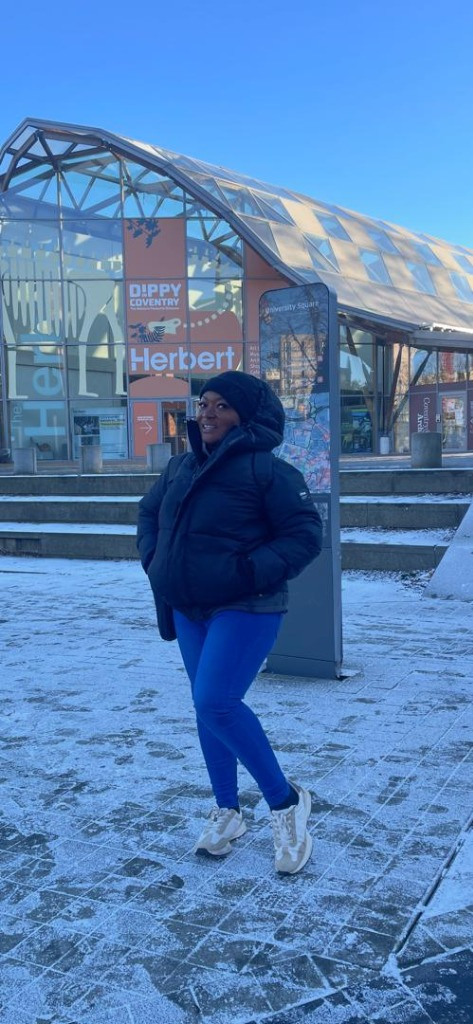
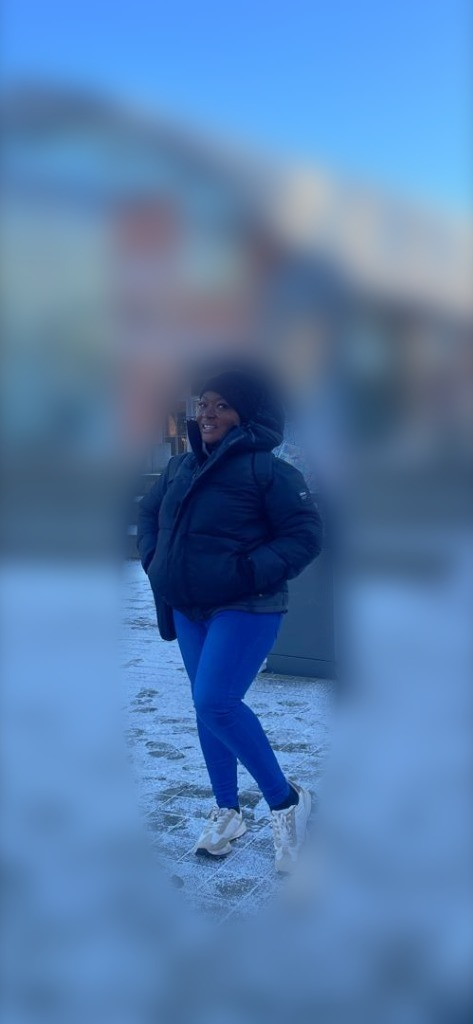
Hide the featured student's location
Blur the background of the client photo so place signs and landmarks can't be read, and remove the town name from the slider text and image description. The client agreed to be featured without her name or location.

diff --git a/index.html b/index.html
@@ -282,11 +282,11 @@
 
                 <!-- 4. Real student -->
                 <article class="mreel-slide ms-photo" aria-roledescription="slide" aria-label="4 of 6">
-                    <div class="ms-photo-img" style="background-image:url('assets/proof_student_uk_arrival.jpg')" role="img" aria-label="A Fyzzo Voyage student outside the Herbert Art Gallery in Coventry, UK, on a snowy day"></div>
+                    <div class="ms-photo-img" style="background-image:url('assets/proof_student_uk_arrival.jpg?v=2')" role="img" aria-label="A Fyzzo Voyage student in the UK on a snowy winter day"></div>
                     <div class="ms-photo-shade" aria-hidden="true"></div>
                     <div class="ms-copy">
                         <span class="ms-kicker">REAL STUDENTS</span>
-                        <h2 class="ms-title"><span class="ms-line">From application</span><span class="ms-line">to <em>a winter in Coventry.</em></span></h2>
+                        <h2 class="ms-title"><span class="ms-line">From application</span><span class="ms-line">to <em>her first UK winter.</em></span></h2>
                         <p class="ms-sub">One of our students, settled in the UK. Your story can start with the May 2027 intake.</p>
                         <div class="ms-cta"><a href="#reviews" class="btn btn-gold">Read student stories &rarr;</a></div>
                     </div>
@@ -1411,8 +1411,8 @@
                         <img src="assets/proof_evisa_status_1.jpg" alt="Official UKVI Student eVisa Approval">
                         <div class="gallery-overlay"><span>🇬🇧 UKVI eVisa Approved</span></div>
                     </div>
-                    <div class="gallery-item" onclick="openLightbox('assets/proof_student_uk_arrival.jpg', 'Student Safely Arrived and Enrolled in the UK')" title="Click to inspect UK arrival">
-                        <img src="assets/proof_student_uk_arrival.jpg" alt="Student Safely Arrived and Enrolled in the UK">
+                    <div class="gallery-item" onclick="openLightbox('assets/proof_student_uk_arrival.jpg?v=2', 'Student Safely Arrived and Enrolled in the UK')" title="Click to inspect UK arrival">
+                        <img src="assets/proof_student_uk_arrival.jpg?v=2" alt="Student Safely Arrived and Enrolled in the UK">
                         <div class="gallery-overlay"><span>✈ Safely Arrived in UK</span></div>
                     </div>
                     <div class="gallery-item" onclick="openLightbox('assets/proof_evisa_status_2.jpg', 'UK Student eVisa Digital Portal Status (Valid to 2028)')" title="Click to inspect digital eVisa portal pass">
